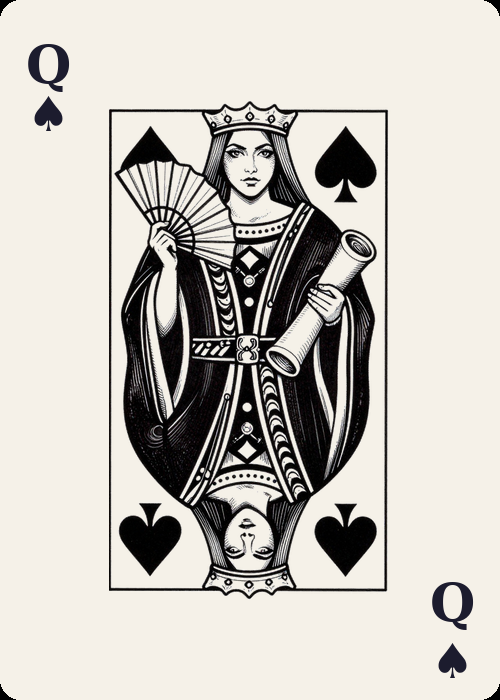
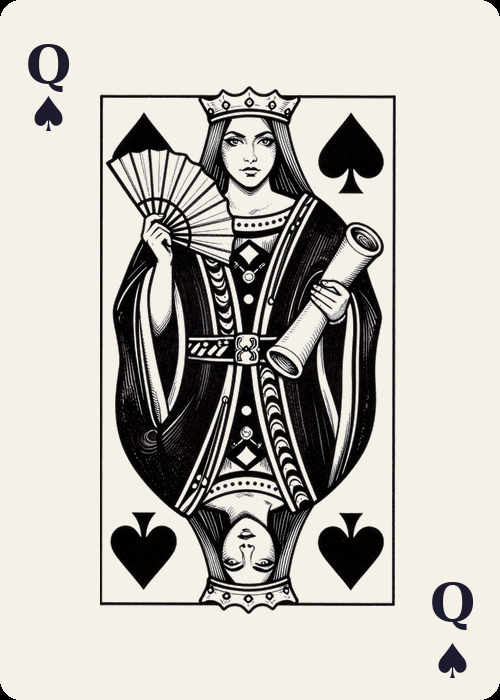
Update vertical corner gutter size in ClassicTheme for improved layout

Changed region(s): [[0.18, 0.12, 0.81, 0.9]]

diff --git a/scripts/generate_cards.py b/scripts/generate_cards.py
@@ -344,7 +344,7 @@ class ClassicTheme(Theme):
     BACK_BG = (26, 77, 46)  # dark green
     BACK_ACCENT = (201, 168, 76)  # gold
     CORNER_GUTTER = 48  # horizontal — matches corner text column width
-    CORNER_V_GUTTER = 100  # vertical — clears full corner text block height
+    CORNER_V_GUTTER = 85  # vertical — clears full corner text block height
 
     # Cache extracted AI center images to avoid re-processing
     _center_cache: dict[str, Image.Image] = {}
